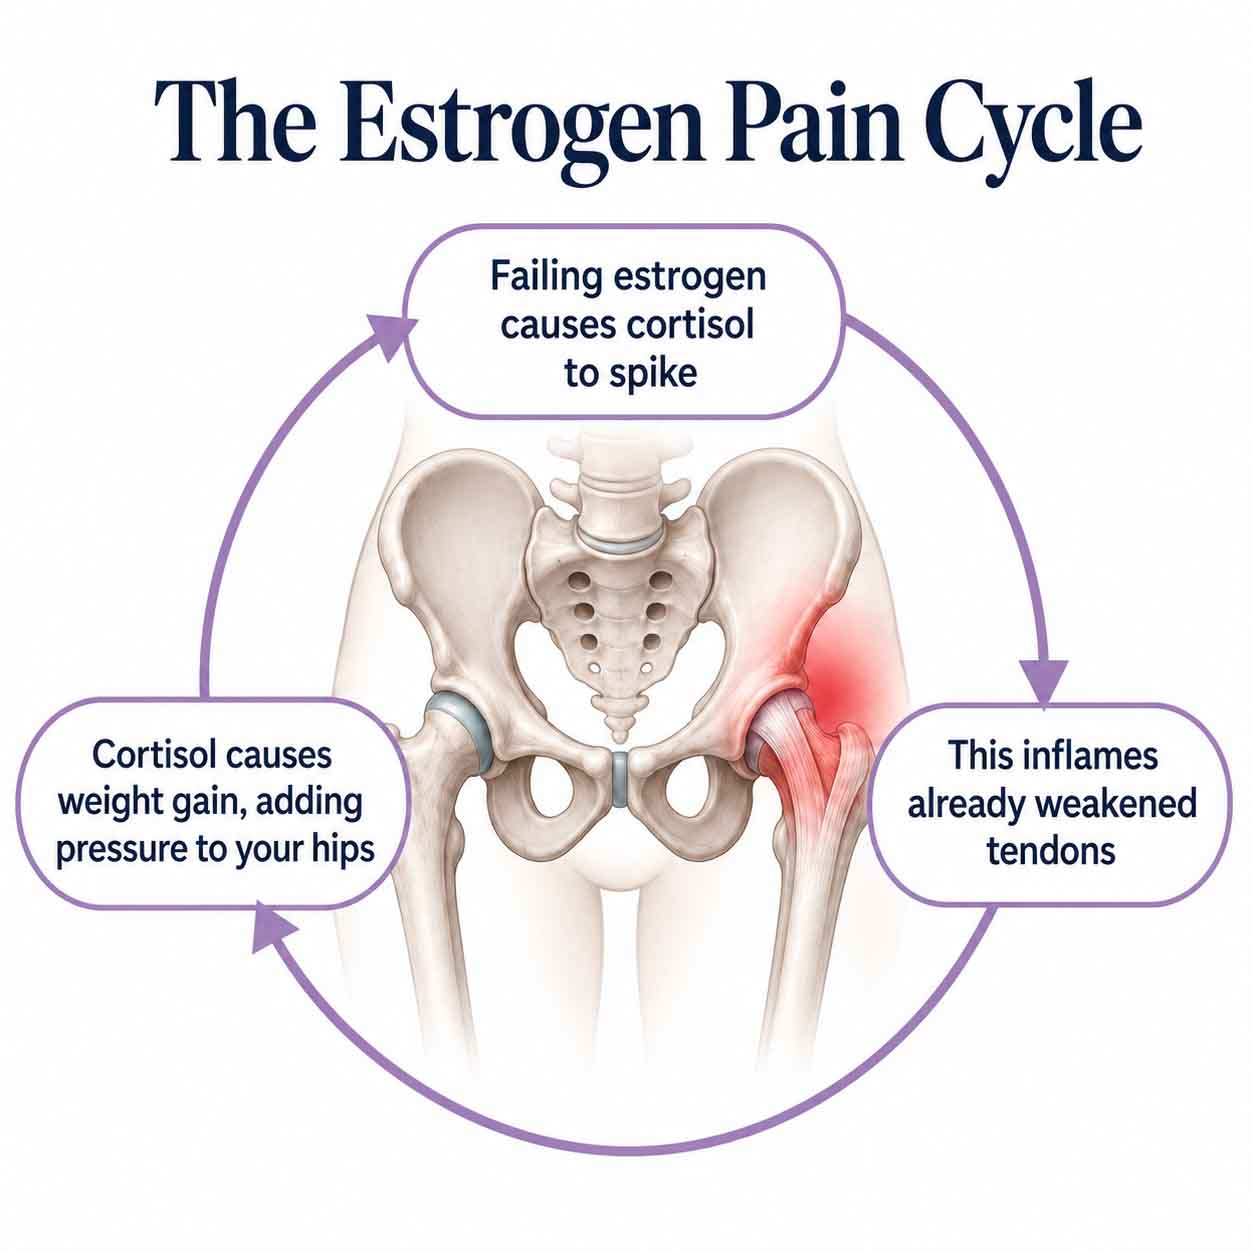
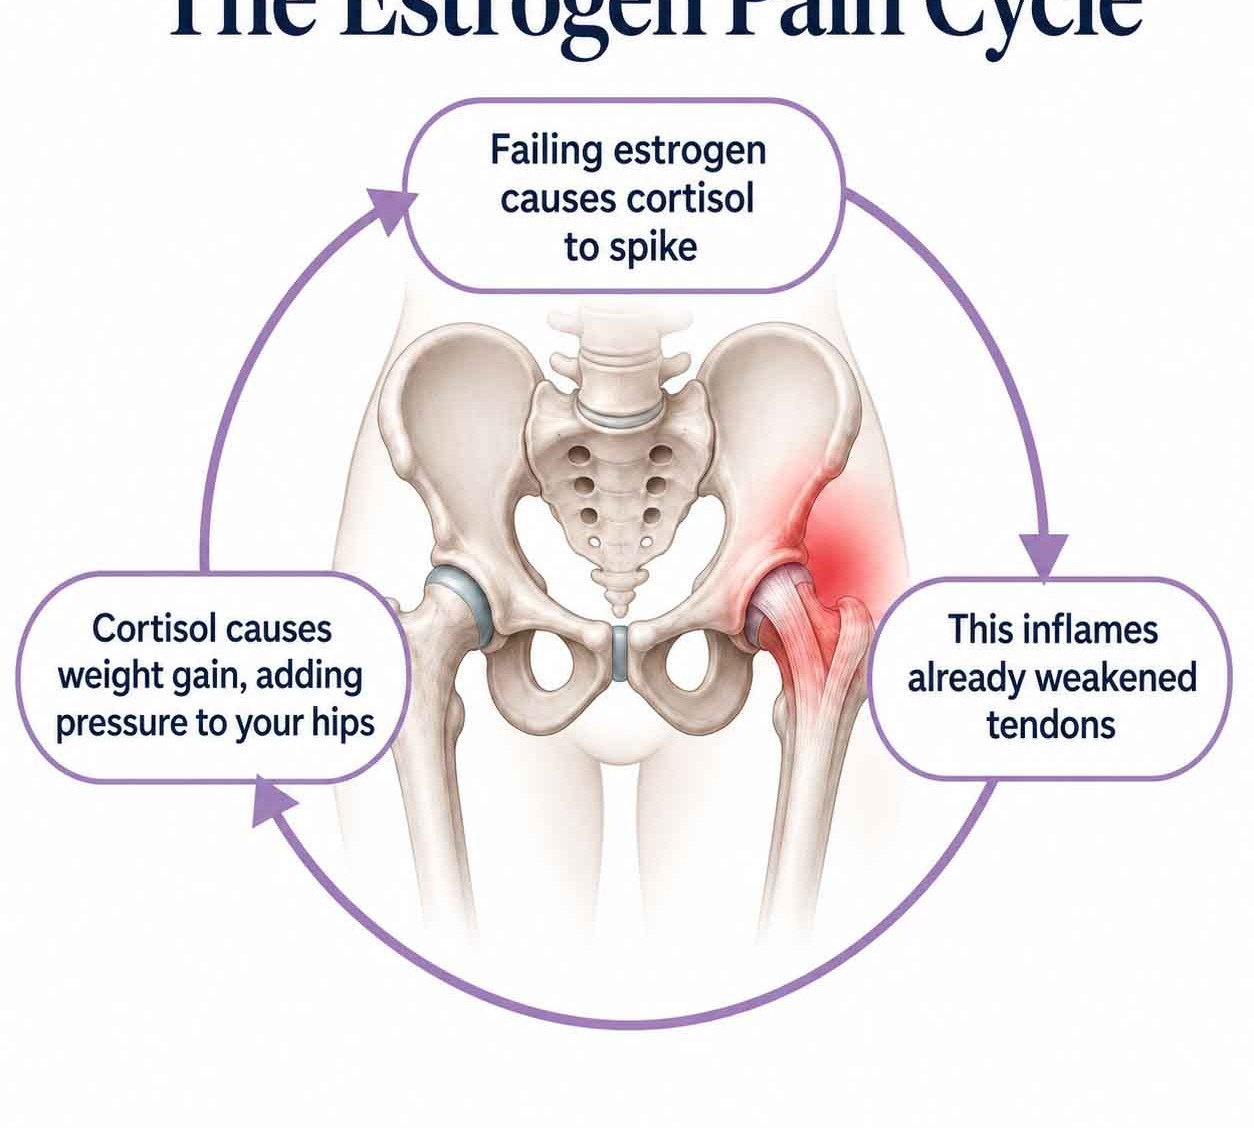
Preview: cycle graphic cropped

Changed region(s): [[0.0, 0.0, 0.9952, 0.9309], [0.7153, 0.2793, 0.7464, 0.3103]]

diff --git a/index.html b/index.html
@@ -102,7 +102,7 @@
         </div>
       </div>
       <div class="reason__media">
-        <img class="reason-img" src="images/estrogen-pain-cycle-v3.jpg" width="1254" height="1254" alt="The estrogen pain cycle: failing estrogen spikes cortisol, inflaming weakened hip tendons">
+        <img class="reason-img" src="images/estrogen-pain-cycle-v3.jpg" width="1254" height="1128" alt="The estrogen pain cycle: failing estrogen spikes cortisol, inflaming weakened hip tendons">
         <!-- Testimonial carousel -->
         <div class="carousel" data-carousel>
           <div class="carousel__track" data-carousel-track>
